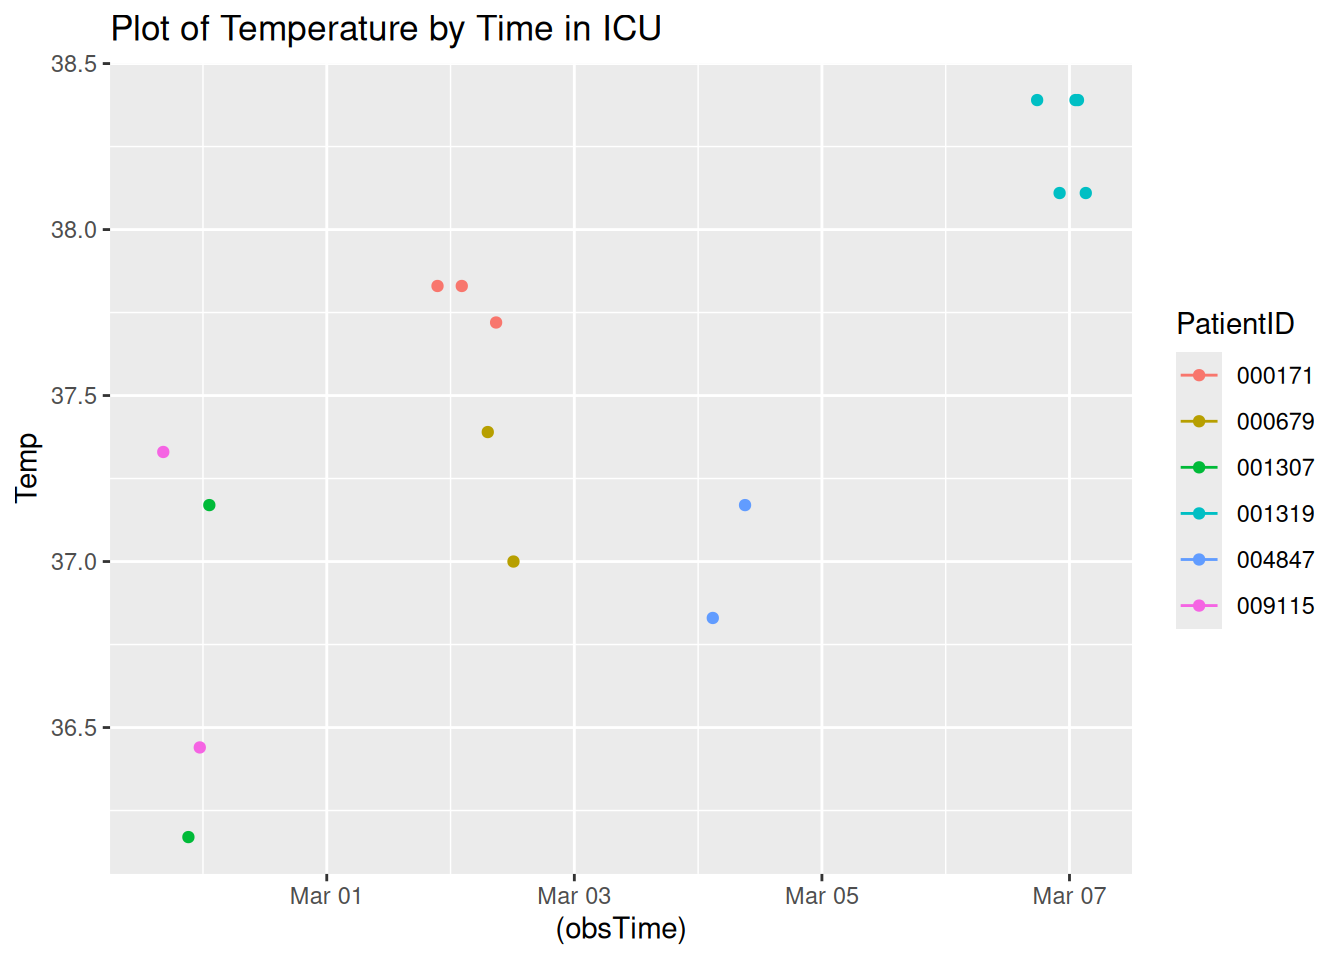
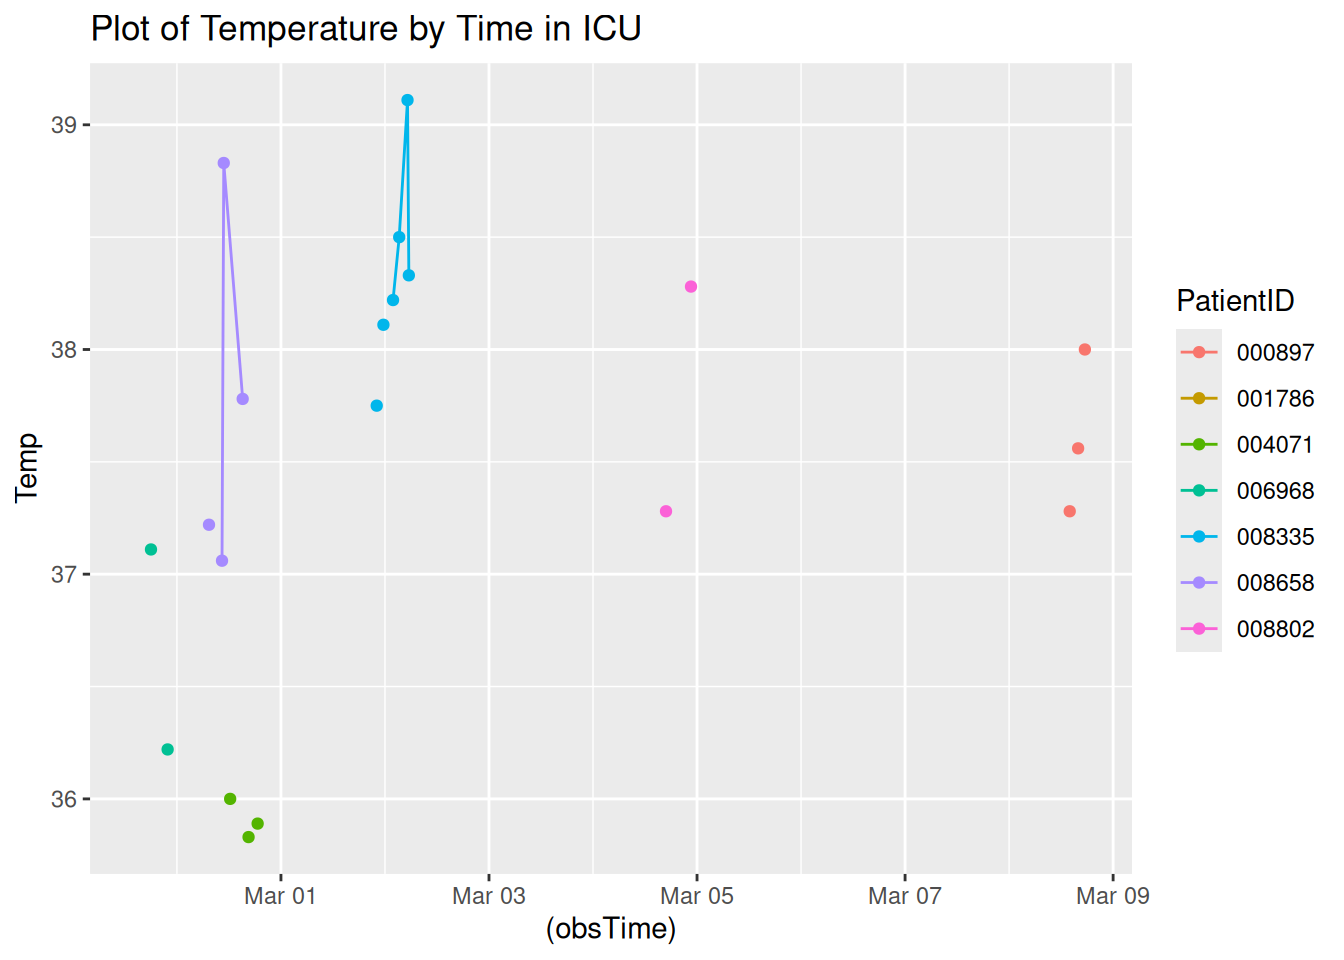
Updated report

diff --git a/A7.html b/A7.html
@@ -119,7 +119,7 @@ pre > code.sourceCode > span > a:first-child::before { text-decoration: underlin
 </div>
 <div class="code-copy-outer-scaffold"><div class="sourceCode cell-code" id="cb4"><pre class="sourceCode r code-with-copy"><code class="sourceCode r"><span id="cb4-1"><a href="#cb4-1" aria-hidden="true" tabindex="-1"></a><span class="fu">toc</span>()</span></code></pre></div><button title="Copy to Clipboard" class="code-copy-button"><i class="bi"></i></button></div>
 <div class="cell-output cell-output-stdout">
-<pre><code>11.645 sec elapsed</code></pre>
+<pre><code>24.506 sec elapsed</code></pre>
 </div>
 <div class="code-copy-outer-scaffold"><div class="sourceCode cell-code" id="cb6"><pre class="sourceCode r code-with-copy"><code class="sourceCode r"><span id="cb6-1"><a href="#cb6-1" aria-hidden="true" tabindex="-1"></a><span class="fu">tic</span>()</span>
 <span id="cb6-2"><a href="#cb6-2" aria-hidden="true" tabindex="-1"></a>test1<span class="ot">=</span><span class="fu">makeSepsisDataset</span>(<span class="at">n=</span><span class="dv">50</span>,<span class="at">read_fn =</span> <span class="st">"read_delim"</span>)</span>
@@ -129,7 +129,7 @@ pre > code.sourceCode > span > a:first-child::before { text-decoration: underlin
 </div>
 <div class="code-copy-outer-scaffold"><div class="sourceCode cell-code" id="cb8"><pre class="sourceCode r code-with-copy"><code class="sourceCode r"><span id="cb8-1"><a href="#cb8-1" aria-hidden="true" tabindex="-1"></a><span class="fu">toc</span>()</span></code></pre></div><button title="Copy to Clipboard" class="code-copy-button"><i class="bi"></i></button></div>
 <div class="cell-output cell-output-stdout">
-<pre><code>12.423 sec elapsed</code></pre>
+<pre><code>23.745 sec elapsed</code></pre>
 </div>
 <div class="code-copy-outer-scaffold"><div class="sourceCode cell-code" id="cb10"><pre class="sourceCode r code-with-copy"><code class="sourceCode r"><span id="cb10-1"><a href="#cb10-1" aria-hidden="true" tabindex="-1"></a><span class="co"># n=100</span></span>
 <span id="cb10-2"><a href="#cb10-2" aria-hidden="true" tabindex="-1"></a><span class="fu">tic</span>()</span>
@@ -140,7 +140,7 @@ pre > code.sourceCode > span > a:first-child::before { text-decoration: underlin
 </div>
 <div class="code-copy-outer-scaffold"><div class="sourceCode cell-code" id="cb12"><pre class="sourceCode r code-with-copy"><code class="sourceCode r"><span id="cb12-1"><a href="#cb12-1" aria-hidden="true" tabindex="-1"></a><span class="fu">toc</span>()</span></code></pre></div><button title="Copy to Clipboard" class="code-copy-button"><i class="bi"></i></button></div>
 <div class="cell-output cell-output-stdout">
-<pre><code>19.125 sec elapsed</code></pre>
+<pre><code>42.826 sec elapsed</code></pre>
 </div>
 <div class="code-copy-outer-scaffold"><div class="sourceCode cell-code" id="cb14"><pre class="sourceCode r code-with-copy"><code class="sourceCode r"><span id="cb14-1"><a href="#cb14-1" aria-hidden="true" tabindex="-1"></a><span class="fu">tic</span>()</span>
 <span id="cb14-2"><a href="#cb14-2" aria-hidden="true" tabindex="-1"></a>test1<span class="ot">=</span><span class="fu">makeSepsisDataset</span>(<span class="at">n=</span><span class="dv">100</span>,<span class="at">read_fn =</span> <span class="st">"read_delim"</span>)</span>
@@ -150,7 +150,7 @@ pre > code.sourceCode > span > a:first-child::before { text-decoration: underlin
 </div>
 <div class="code-copy-outer-scaffold"><div class="sourceCode cell-code" id="cb16"><pre class="sourceCode r code-with-copy"><code class="sourceCode r"><span id="cb16-1"><a href="#cb16-1" aria-hidden="true" tabindex="-1"></a><span class="fu">toc</span>()</span></code></pre></div><button title="Copy to Clipboard" class="code-copy-button"><i class="bi"></i></button></div>
 <div class="cell-output cell-output-stdout">
-<pre><code>21.033 sec elapsed</code></pre>
+<pre><code>46.592 sec elapsed</code></pre>
 </div>
 <div class="code-copy-outer-scaffold"><div class="sourceCode cell-code" id="cb18"><pre class="sourceCode r code-with-copy"><code class="sourceCode r"><span id="cb18-1"><a href="#cb18-1" aria-hidden="true" tabindex="-1"></a><span class="co"># n=500</span></span>
 <span id="cb18-2"><a href="#cb18-2" aria-hidden="true" tabindex="-1"></a><span class="fu">tic</span>()</span>
@@ -161,7 +161,7 @@ pre > code.sourceCode > span > a:first-child::before { text-decoration: underlin
 </div>
 <div class="code-copy-outer-scaffold"><div class="sourceCode cell-code" id="cb20"><pre class="sourceCode r code-with-copy"><code class="sourceCode r"><span id="cb20-1"><a href="#cb20-1" aria-hidden="true" tabindex="-1"></a><span class="fu">toc</span>()</span></code></pre></div><button title="Copy to Clipboard" class="code-copy-button"><i class="bi"></i></button></div>
 <div class="cell-output cell-output-stdout">
-<pre><code>96.56 sec elapsed</code></pre>
+<pre><code>223.441 sec elapsed</code></pre>
 </div>
 <div class="code-copy-outer-scaffold"><div class="sourceCode cell-code" id="cb22"><pre class="sourceCode r code-with-copy"><code class="sourceCode r"><span id="cb22-1"><a href="#cb22-1" aria-hidden="true" tabindex="-1"></a><span class="fu">tic</span>()</span>
 <span id="cb22-2"><a href="#cb22-2" aria-hidden="true" tabindex="-1"></a>test1<span class="ot">=</span><span class="fu">makeSepsisDataset</span>(<span class="at">n=</span><span class="dv">500</span>,<span class="at">read_fn =</span> <span class="st">"read_delim"</span>)</span>
@@ -171,7 +171,7 @@ pre > code.sourceCode > span > a:first-child::before { text-decoration: underlin
 </div>
 <div class="code-copy-outer-scaffold"><div class="sourceCode cell-code" id="cb24"><pre class="sourceCode r code-with-copy"><code class="sourceCode r"><span id="cb24-1"><a href="#cb24-1" aria-hidden="true" tabindex="-1"></a><span class="fu">toc</span>()</span></code></pre></div><button title="Copy to Clipboard" class="code-copy-button"><i class="bi"></i></button></div>
 <div class="cell-output cell-output-stdout">
-<pre><code>106.226 sec elapsed</code></pre>
+<pre><code>231.42 sec elapsed</code></pre>
 </div>
 </div>
 <p><strong>Task 3</strong></p>
@@ -207,7 +207,7 @@ readr 2.2.0.
 <span id="cb30-4"><a href="#cb30-4" aria-hidden="true" tabindex="-1"></a></span>
 <span id="cb30-5"><a href="#cb30-5" aria-hidden="true" tabindex="-1"></a><span class="fu">Sys.time</span>()</span></code></pre></div><button title="Copy to Clipboard" class="code-copy-button"><i class="bi"></i></button></div>
 <div class="cell-output cell-output-stdout">
-<pre><code>[1] "2026-02-27 13:13:29 UTC"</code></pre>
+<pre><code>[1] "2026-02-27 14:53:20 UTC"</code></pre>
 </div>
 <div class="code-copy-outer-scaffold"><div class="sourceCode cell-code" id="cb32"><pre class="sourceCode r code-with-copy"><code class="sourceCode r"><span id="cb32-1"><a href="#cb32-1" aria-hidden="true" tabindex="-1"></a>dfnew <span class="ot">&lt;-</span> df <span class="sc">%&gt;%</span></span>
 <span id="cb32-2"><a href="#cb32-2" aria-hidden="true" tabindex="-1"></a>  <span class="fu">subset</span>(SepsisLabel<span class="sc">==</span><span class="dv">1</span>)</span>
@@ -236,58 +236,67 @@ readr 2.2.0.
 </thead>
 <tbody>
 <tr class="odd">
-<td style="text-align: left;">000171</td>
+<td style="text-align: left;">000897</td>
+<td style="text-align: right;">219</td>
+<td style="text-align: right;">76</td>
+<td style="text-align: right;">38.00</td>
+<td style="text-align: right;">24</td>
+<td style="text-align: right;">1</td>
+<td style="text-align: left;">2026-03-08 17:29:04</td>
+</tr>
+<tr class="even">
+<td style="text-align: left;">001786</td>
+<td style="text-align: right;">10</td>
+<td style="text-align: right;">71</td>
+<td style="text-align: right;">NA</td>
+<td style="text-align: right;">22</td>
+<td style="text-align: right;">1</td>
+<td style="text-align: left;">2026-02-28 00:41:20</td>
+</tr>
+<tr class="odd">
+<td style="text-align: left;">004071</td>
+<td style="text-align: right;">31</td>
 <td style="text-align: right;">68</td>
-<td style="text-align: right;">118</td>
-<td style="text-align: right;">37.72</td>
-<td style="text-align: right;">19</td>
+<td style="text-align: right;">NA</td>
+<td style="text-align: right;">13</td>
 <td style="text-align: right;">1</td>
-<td style="text-align: left;">2026-03-02 08:49:55</td>
+<td style="text-align: left;">2026-02-28 21:15:54</td>
 </tr>
 <tr class="even">
-<td style="text-align: left;">000679</td>
-<td style="text-align: right;">72</td>
-<td style="text-align: right;">67</td>
-<td style="text-align: right;">NA</td>
-<td style="text-align: right;">16</td>
+<td style="text-align: left;">006968</td>
+<td style="text-align: right;">7</td>
+<td style="text-align: right;">68</td>
+<td style="text-align: right;">36.22</td>
+<td style="text-align: right;">13</td>
 <td style="text-align: right;">1</td>
-<td style="text-align: left;">2026-03-02 12:20:32</td>
+<td style="text-align: left;">2026-02-27 21:51:12</td>
 </tr>
 <tr class="odd">
-<td style="text-align: left;">001307</td>
-<td style="text-align: right;">21</td>
-<td style="text-align: right;">83</td>
+<td style="text-align: left;">008335</td>
+<td style="text-align: right;">70</td>
+<td style="text-align: right;">97</td>
+<td style="text-align: right;">NA</td>
+<td style="text-align: right;">NA</td>
+<td style="text-align: right;">1</td>
+<td style="text-align: left;">2026-03-02 12:08:30</td>
+</tr>
+<tr class="even">
+<td style="text-align: left;">008658</td>
+<td style="text-align: right;">25</td>
+<td style="text-align: right;">105</td>
+<td style="text-align: right;">NA</td>
+<td style="text-align: right;">31</td>
+<td style="text-align: right;">1</td>
+<td style="text-align: left;">2026-02-28 15:43:38</td>
+</tr>
+<tr class="odd">
+<td style="text-align: left;">008802</td>
+<td style="text-align: right;">130</td>
+<td style="text-align: right;">86</td>
 <td style="text-align: right;">NA</td>
 <td style="text-align: right;">19</td>
 <td style="text-align: right;">1</td>
-<td style="text-align: left;">2026-02-28 09:50:32</td>
-</tr>
-<tr class="even">
-<td style="text-align: left;">001319</td>
-<td style="text-align: right;">182</td>
-<td style="text-align: right;">75</td>
-<td style="text-align: right;">38.11</td>
-<td style="text-align: right;">16</td>
-<td style="text-align: right;">1</td>
-<td style="text-align: left;">2026-03-07 03:09:33</td>
-</tr>
-<tr class="odd">
-<td style="text-align: left;">004847</td>
-<td style="text-align: right;">117</td>
-<td style="text-align: right;">77</td>
-<td style="text-align: right;">NA</td>
-<td style="text-align: right;">11</td>
-<td style="text-align: right;">1</td>
-<td style="text-align: left;">2026-03-04 09:45:22</td>
-</tr>
-<tr class="even">
-<td style="text-align: left;">009115</td>
-<td style="text-align: right;">12</td>
-<td style="text-align: right;">85</td>
-<td style="text-align: right;">NA</td>
-<td style="text-align: right;">14</td>
-<td style="text-align: right;">1</td>
-<td style="text-align: left;">2026-02-28 01:03:31</td>
+<td style="text-align: left;">2026-03-05 00:47:26</td>
 </tr>
 </tbody>
 </table>
